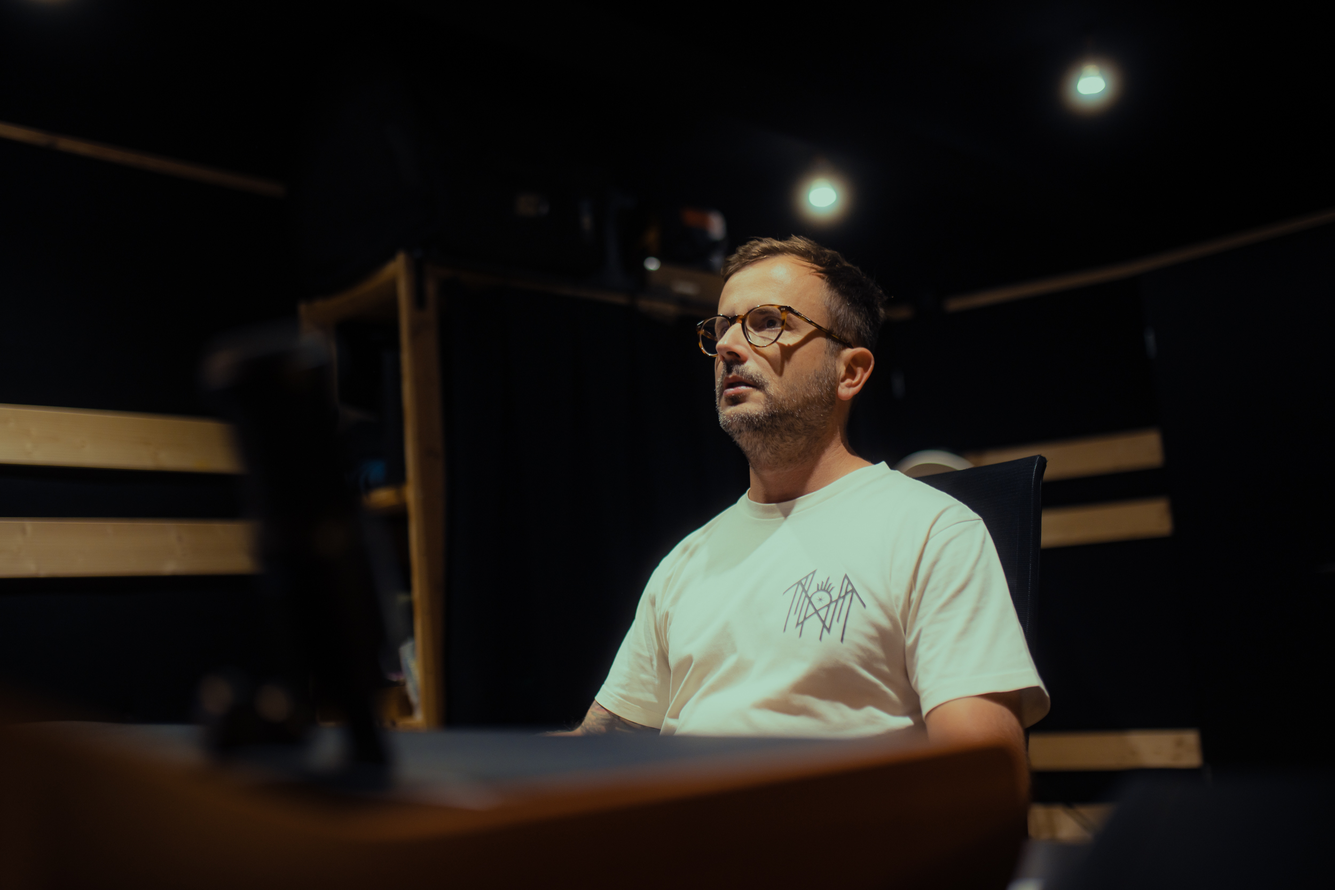
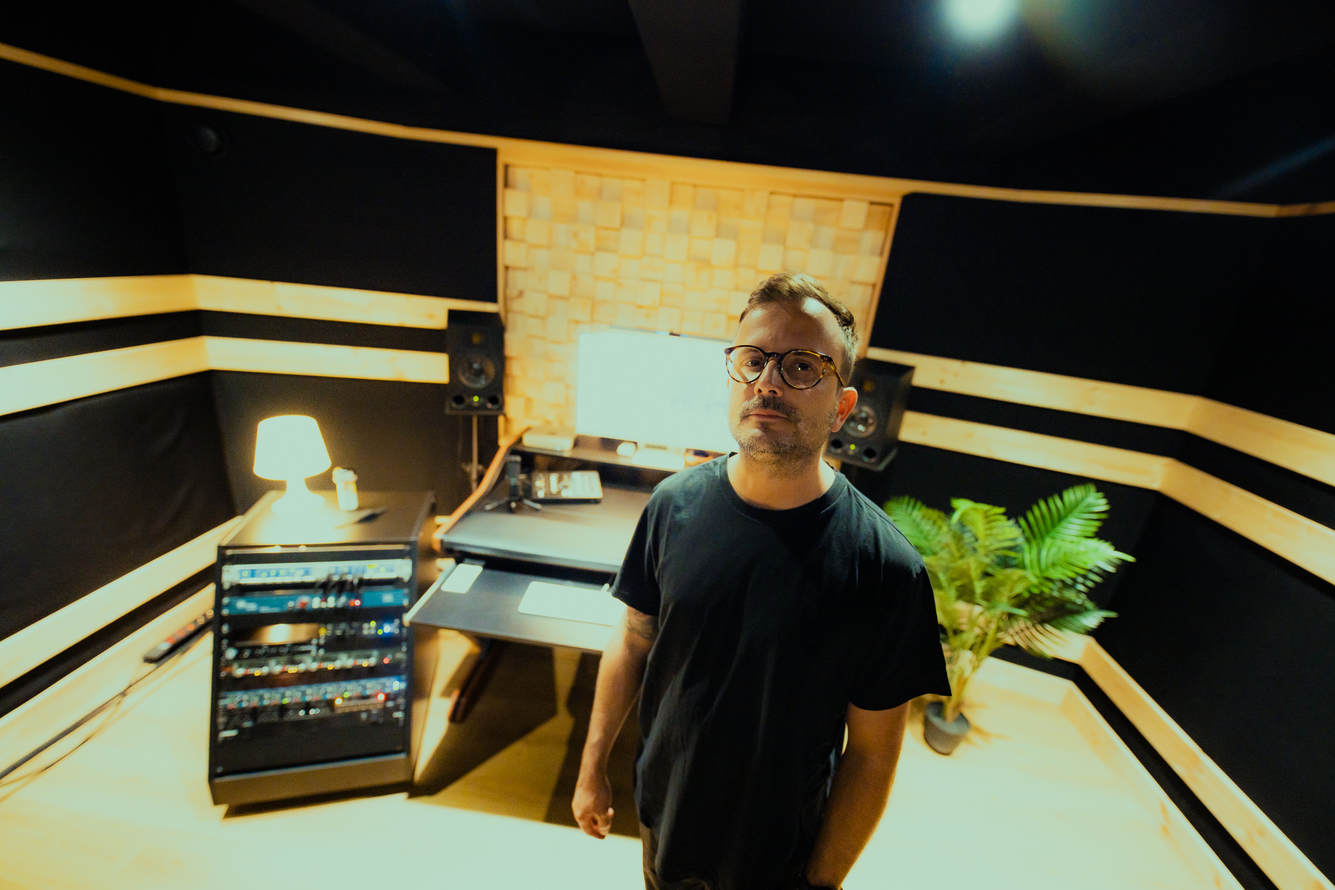
Update abou us page

diff --git a/app/pages/en/about.vue b/app/pages/en/about.vue
@@ -34,17 +34,8 @@ const config = useRuntimeConfig()
   <!-- WHITE CONTENT -->
   <div class="bg-white py-16 md:py-20">
 
-    <!-- HERO TEXT -->
-    <section class="px-6 max-w-[1200px] mx-auto text-center mb-20">
-      <h2>ABOUT US</h2>
-      <p class="max-w-2xl mx-auto text-center">
-        Grenma Studio is a modern, friendly and professional environment
-        designed to help you get the absolute best out of your music.
-      </p>
-    </section>
-
     <!-- 1) IMAGE – TEXT -->
-    <section class="px-6 max-w-[1200px] mx-auto grid md:grid-cols-2 gap-12 mb-12 md:mb-24 items-center">
+    <section class="px-6 max-w-[1200px] mx-auto grid md:grid-cols-2 gap-12 items-center">
 
       <div class="rounded-xl overflow-hidden">
         <img src="/studio_lounge.jpg" class="w-full h-full object-cover" />
@@ -53,13 +44,12 @@ const config = useRuntimeConfig()
       <div>
         <h3>THE STUDIO</h3>
         <p>
-          You can find us in Budapest, District XIII (Dolmány utca 48).
-          A 40 m² community area, 3 studio rooms (a 25 m² control room,
-          and two live rooms of 35 m² and 20 m²), kitchen, clean restroom,
-          air conditioning, Wi‑Fi, unlimited coffee and tea —
-          and for singers or the nervous ones, chilled Jägermeister :)
+          You can find us in Budapest's 13th district (48 Dolmány Street).
+          A 40 m² creative space featuring 3 separate studios (20, 25, and 35 m² rooms),
+          a kitchen, and clean restroom facilities. Air conditioning, Wi-Fi,
+          unlimited coffee and tea, and for singers or nervous performers, chilled Jägermeister :)
           <br><br>
-          We do everything we can to make you feel at home while working with us.
+          We do everything we can to make you feel at home.
         </p>
       </div>
 
@@ -70,7 +60,7 @@ const config = useRuntimeConfig()
     </div>
 
     <!-- 2) IMAGE – TEXT -->
-    <section class="px-6 max-w-[1200px] mx-auto grid md:grid-cols-2 gap-12 mb-12 md:mb-24 items-center">
+    <section class="px-6 max-w-[1200px] mx-auto grid md:grid-cols-2 gap-12 items-center">
 
       <div class="rounded-xl overflow-hidden md:order-2">
         <img src="/matyi_profile.jpg" class="w-full h-full object-cover" />
@@ -79,21 +69,21 @@ const config = useRuntimeConfig()
       <div class="md:order-1">
         <h3>MÁTYÁS BOTLIK</h3>
         <p>
-          Matyi has been recording since 2008, always with endless patience
-          and attention to detail. He feels at home in modern punk, rock, metal,
-          pop, acoustic, folk and electronic projects alike.
+          Matyi, the studio manager of Grenma Studio, has been recording music since 2008.
+          He works with endless patience and great attention to detail, always bringing out the best in musicians.
+          Over the years, he has worked on modern punk, rock, metal, and pop productions, as well as acoustic,
+          folk, and electronic music projects, and remains open to every musical style.
         </p>
       </div>
 
     </section>
-
 
     <div class="px-6">
       <div class="max-w-[1200px] mx-auto h-[2px] bg-[#851707]/50 my-16"></div>
     </div>
 
     <!-- 3) TEXT – IMAGE -->
-    <section class="px-6 max-w-[1200px] mx-auto grid md:grid-cols-2 gap-12 mb-12 md:mb-24 items-center">
+    <section class="px-6 max-w-[1200px] mx-auto grid md:grid-cols-2 gap-12 items-center">
 
       <div class="rounded-xl overflow-hidden md:order-1">
         <img src="/dani_profile.jpg" class="w-full h-full object-cover" />
@@ -102,10 +92,9 @@ const config = useRuntimeConfig()
       <div class="md:order-2">
         <h3>DÁNIEL IVÁNFI</h3>
         <p>
-          Dani has been working seriously with recording since 2017,
-          when he worked on the debut album of his band Stubborn.
-          Since then, he has been passionately involved in metal, punk rock
-          and hardcore productions — recording, mixing and editing.
+          Dani has been involved in audio recording since 2017, when he worked on the recording sessions
+          for his band Stubborn's full-length album. Since then, he has been passionately working on projects
+          for Metal, Punk Rock, and Hardcore bands, covering recording, mixing, and editing tasks.
         </p>
       </div>
 

diff --git a/app/pages/about.vue b/app/pages/about.vue
@@ -33,17 +33,8 @@ const config = useRuntimeConfig()
   <!-- FEHÉR TARTALOM -->
   <div class="bg-white py-16 md:py-20">
 
-    <!-- HERO TEXT -->
-    <section class="px-6 max-w-[1200px] mx-auto text-center mb-20">
-      <h2>RÓLUNK</h2>
-      <p class="max-w-2xl mx-auto text-center">
-        A Grenma Studio egy modern, barátságos és professzionális környezet,
-        ahol minden adott ahhoz, hogy a maximumot hozd ki a zenédből.
-      </p>
-    </section>
-
     <!-- 1) KÉP – SZÖVEG -->
-    <section class="px-6 max-w-[1200px] mx-auto grid md:grid-cols-2 gap-12 mb-12 md:mb-24 items-center">
+    <section class="px-6 max-w-[1200px] mx-auto grid md:grid-cols-2 gap-12 items-center">
 
       <div class="rounded-xl overflow-hidden">
         <img src="/studio_lounge.jpg" class="w-full h-full object-cover" />
@@ -53,9 +44,9 @@ const config = useRuntimeConfig()
         <h3>A STÚDIÓ</h3>
         <p>
           Budapesten, a XIII. kerületben találsz meg minket (Dolmány utca 48.).
-          40 m²-es közösségi hely, 3 stúdióhelység (25 m² lehallgató, 35 m² és 20 m² feljátszók),
-          konyha, kulturált mellékhelység. Klíma, Wi-Fi, korlátlan kávé- és teafogyasztás,
-          énekeseknek, izgulósoknak hűtött Jägermeister :)
+          40 m²-es közösségi hely, 3 szeparált stúdió (20, 25 és 35 m² helyiség),
+          konyha, kulturált mellékhelyiség. Klíma, Wi-Fi, korlátlan kávé- és teafogyasztás,
+          énekeseknek, izgulósoknak hűtött Jägermeister:)
           <br><br>
           Mindent megteszünk annak érdekében, hogy otthonosan érezd magad nálunk.
         </p>
@@ -68,7 +59,7 @@ const config = useRuntimeConfig()
     </div>
 
     <!-- 2) KÉP – SZÖVEG -->
-    <section class="px-6 max-w-[1200px] mx-auto grid md:grid-cols-2 gap-12 mb-12 md:mb-24 items-center">
+    <section class="px-6 max-w-[1200px] mx-auto grid md:grid-cols-2 gap-12 items-center">
 
       <div class="rounded-xl overflow-hidden md:order-2">
         <img src="/matyi_profile.jpg" class="w-full h-full object-cover" />
@@ -77,9 +68,8 @@ const config = useRuntimeConfig()
       <div class="md:order-1">
         <h3>BOTLIK MÁTYÁS</h3>
         <p>
-          Matyi 2008 óta készít felvételeket, végtelen türelemmel és odafigyeléssel.
-          Modern punk, rock, metal, pop, akusztikus, népzenei és elektronikus projektekben
-          egyaránt otthonosan mozog.
+          Matyi, a Grenma Studio stúdióvezetője 2008 óta készít felvételeket. Végtelen türelemmel és nagy odafigyeléssel dolgozik, a zenészekből a maximumot kihozva.
+          Az elmúlt években a modern punk, rock, metal, pop produkciók mellett akusztikus, népzenei és elektronikus zenei projekteken is dolgozott, és nyitott minden stílus irányába.
         </p>
       </div>
 
@@ -91,7 +81,7 @@ const config = useRuntimeConfig()
     </div>
 
     <!-- 3) SZÖVEG – KÉP -->
-    <section class="px-6 max-w-[1200px] mx-auto grid md:grid-cols-2 gap-12 mb-12 md:mb-24 items-center">
+    <section class="px-6 max-w-[1200px] mx-auto grid md:grid-cols-2 gap-12 items-center">
 
       <div class="rounded-xl overflow-hidden md:order-1">
         <img src="/dani_profile.jpg" class="w-full h-full object-cover" />
@@ -100,7 +90,7 @@ const config = useRuntimeConfig()
       <div class="md:order-2">
         <h3>IVÁNFI DÁNIEL</h3>
         <p>
-          Dani 2017 óta foglalkozik komolyabban felvétel készítéssel, amikor az éppen aktuális zenekara,
+          Dani 2017 óta foglalkozik felvétel készítéssel, amikor az éppen aktuális zenekara,
           a Stubborn nagylemezének felvételin dolgozott. Azóta megállíthatatlan szenvedéllyel tevékenykedik Metal, Punk Rock, HC
           zenekarok anyagain, legyen szó felvételről, keverésről, editálási feladatkról.
         </p>
